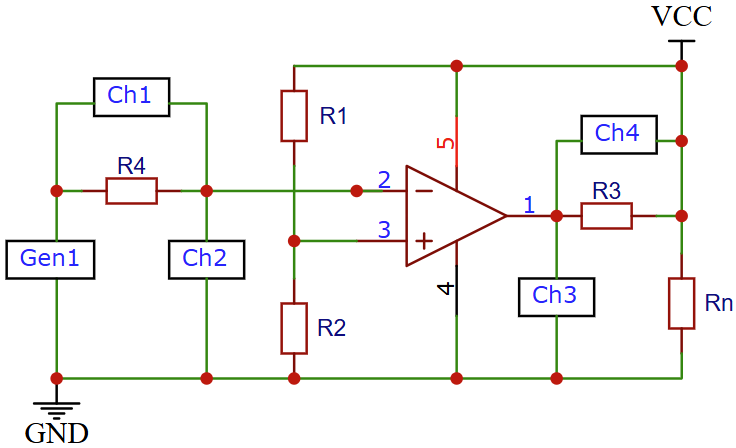
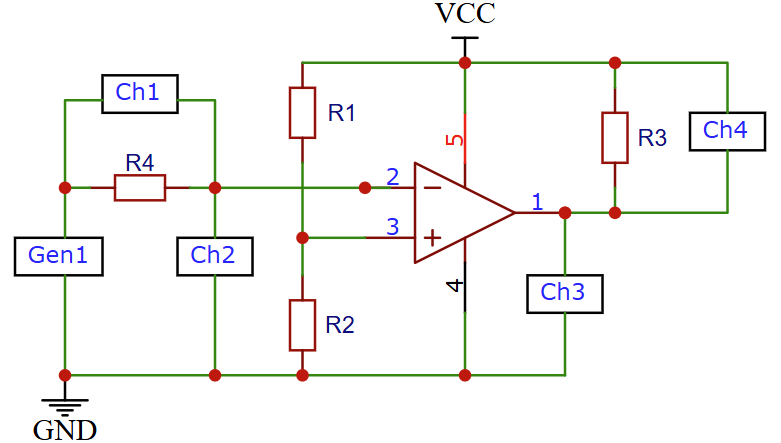
251206

Changed region(s): [[0.0, 0.0, 1.0, 0.9977], [0.875, 0.0, 0.9688, 0.0587]]

diff --git a/docs/source/conf.py b/docs/source/conf.py
@@ -18,6 +18,7 @@ author = 'Pavel Balobin'
 extensions = [
     'sphinxcontrib.spelling',
     'sphinx_copybutton',
+    'sphinx_sitemap',
 ]
 
 templates_path = ['_templates']
@@ -35,3 +36,5 @@ html_show_sourcelink = False
 
 spelling_word_list_filename='spelling_wordlist.txt'
 spelling_exclude_patterns=['ignored_*']
+
+html_baseurl = 'http://localhost:8000/build/html/index.html'

diff --git a/docs/source/electronics/comparator/comparator.rst b/docs/source/electronics/comparator/comparator.rst
@@ -14,6 +14,7 @@
     Бесплатные материалы по теме:
 
     #. `Что такое выход с Открытым Коллектором, открытым стоком`_
+    #. `Что нужно делать с неподключенными выводами микросхем`_
 
 Загрузки:
 
@@ -45,6 +46,7 @@
     - :math:`U(+) < U(-)` - выход компаратора открыт (выход и земля замкнуты)
 
 .. note::
+    Сопротивление входов компаратора очень большое.
     Управление осуществляется напряжением, т.е. можно использовать большие сопротивления
     для делителя напряжения, который подает управляющее напряжение на входы.
 
@@ -63,13 +65,14 @@
 
 - **VCC** - 9 В
 - **Comparator** - LM393P
-- **U(Gen1)** - 0 В ... +5 В (треугольник) подается от генератора Gen1 с частотой 500 Гц.
+- **U(Gen1)** - 0 В ... +7 В (треугольник) подается от генератора Gen1 с частотой 500 Гц.
 - **U(+)** = 4.5 В - пороговое напряжение, заданное делителем напряжения R1/R2.
 - **R1** = 10 КОм - сопротивление делителя напряжения.
 - **R2** = 10 КОм - сопротивление делителя напряжения.
-- **R3** = 100 Ом - токоограничивающий резистор. В данном случае служит для определения тока выходной цепи компаратора.
+- **R3** = 1 КОм - токоограничивающий резистор. Поскольку максимальных выходной ток компаратора 20 мА,
+  необходимо ограничить ток выходной цепи когда выход компаратора открыт.
+  В данной случае также используется для определения выходного тока компаратора.
 - **R4** = 100 Ом - токоограничивающий резистор. В данном случае служит для определения тока выходной цепи компаратора.
-- **Rn** = 100 Ом - сопротивление нагрузки.
 
 Характеристики компаратора LM393P (в корпусе DIP-8)
     - **Напряжение питания** = 	+2В…36В, ±1В…18В
@@ -83,14 +86,27 @@
 
    Корпус компаратора LM393P (DIP-8)
 
-На следующей схеме добавлено сопротивление обратной связи (Rfd), с помощью которого
-будем изменять порог срабатывания компаратора.
+.. important::
+    На висящих выходах компаратора может наводится ЭДС, что приведет к срабатыванию незадействованного компаратора.
+    Частые срабатывания могут привести к повышенному потреблению тока.
+    Чтобы этого избежать, нужно зафиксировать положение незадействованного компаратора.
+    Т.е. подать на его входы разные потенциалы. Например, на U(+) подать высокий потенциал,
+    а на U(-) подать низкий потенциал.
+    Контакт выхода можно никуда не подключать.
+    Но важно не подключить выходной контакт ни к земле, ни к источнику питания,
+    в противном случае произойдет короткое замыкание.
+
+На следующей схеме добавлено сопротивление обратной связи (Rfd) или сопротивление гистерезиса,
+с помощью которого будем изменять порог срабатывания компаратора.
+Чем меньше сопротивление, тем больше разница порогов срабатывания.
 
 .. figure:: images/comparator_003.png
    :width: 550px
    :align: center
 
    Схема подключения компаратора с обратной связью
+
+- **Rfb** = 1КОм...3КОм - сопротивление обратной связи (гистерезиса).
 
 Лабораторная работа
 -------------------
@@ -116,6 +132,8 @@
 
 #. `Электроника для начинающих, Д.Забарило`_
 #. `Что такое выход с Открытым Коллектором, открытым стоком`_
+#. `Что нужно делать с неподключенными выводами микросхем`_
 
+.. _Что нужно делать с неподключенными выводами микросхем: https://www.youtube.com/watch?v=rGQZcHPL7Mc
 .. _Что такое выход с Открытым Коллектором, открытым стоком: https://www.youtube.com/watch?v=cpXESVwulyw
 .. _Электроника для начинающих, Д.Забарило: https://diodov.net/elektronika-dlya-nachinayushhih/
